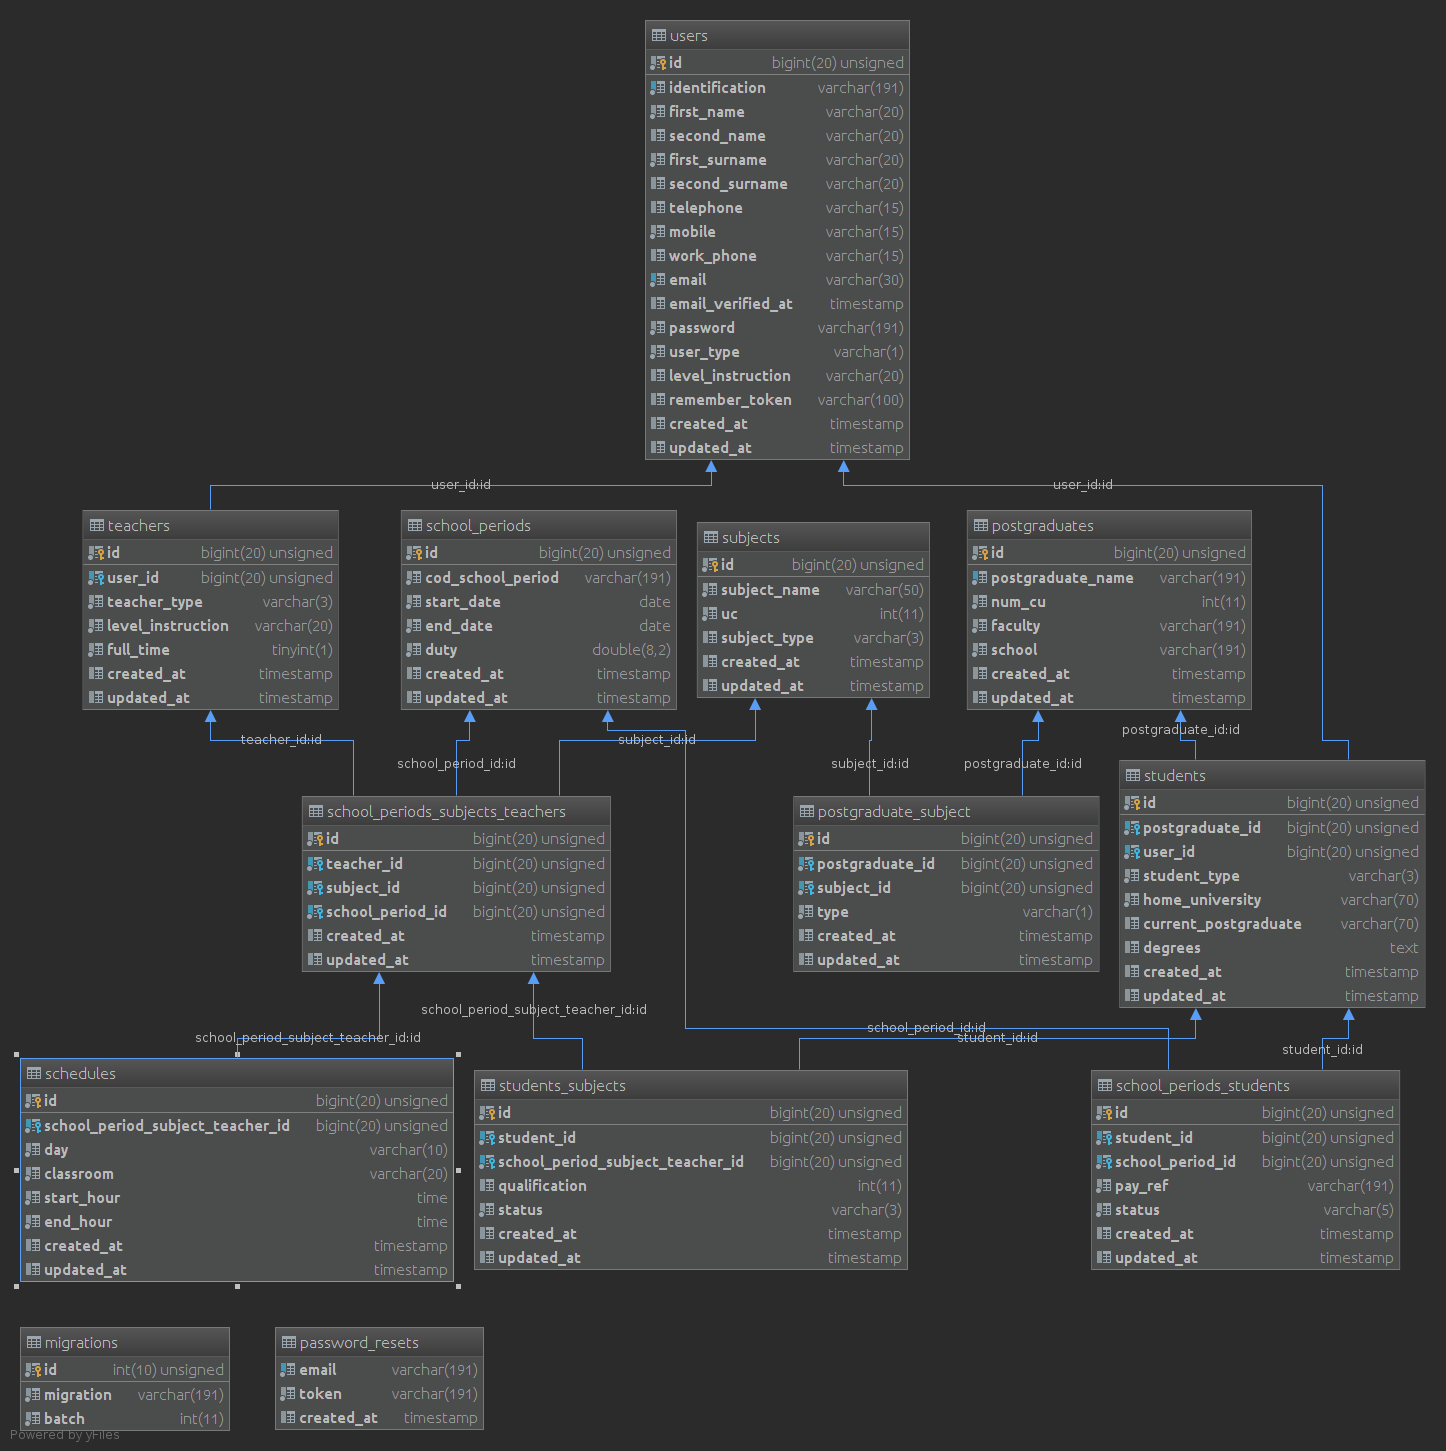
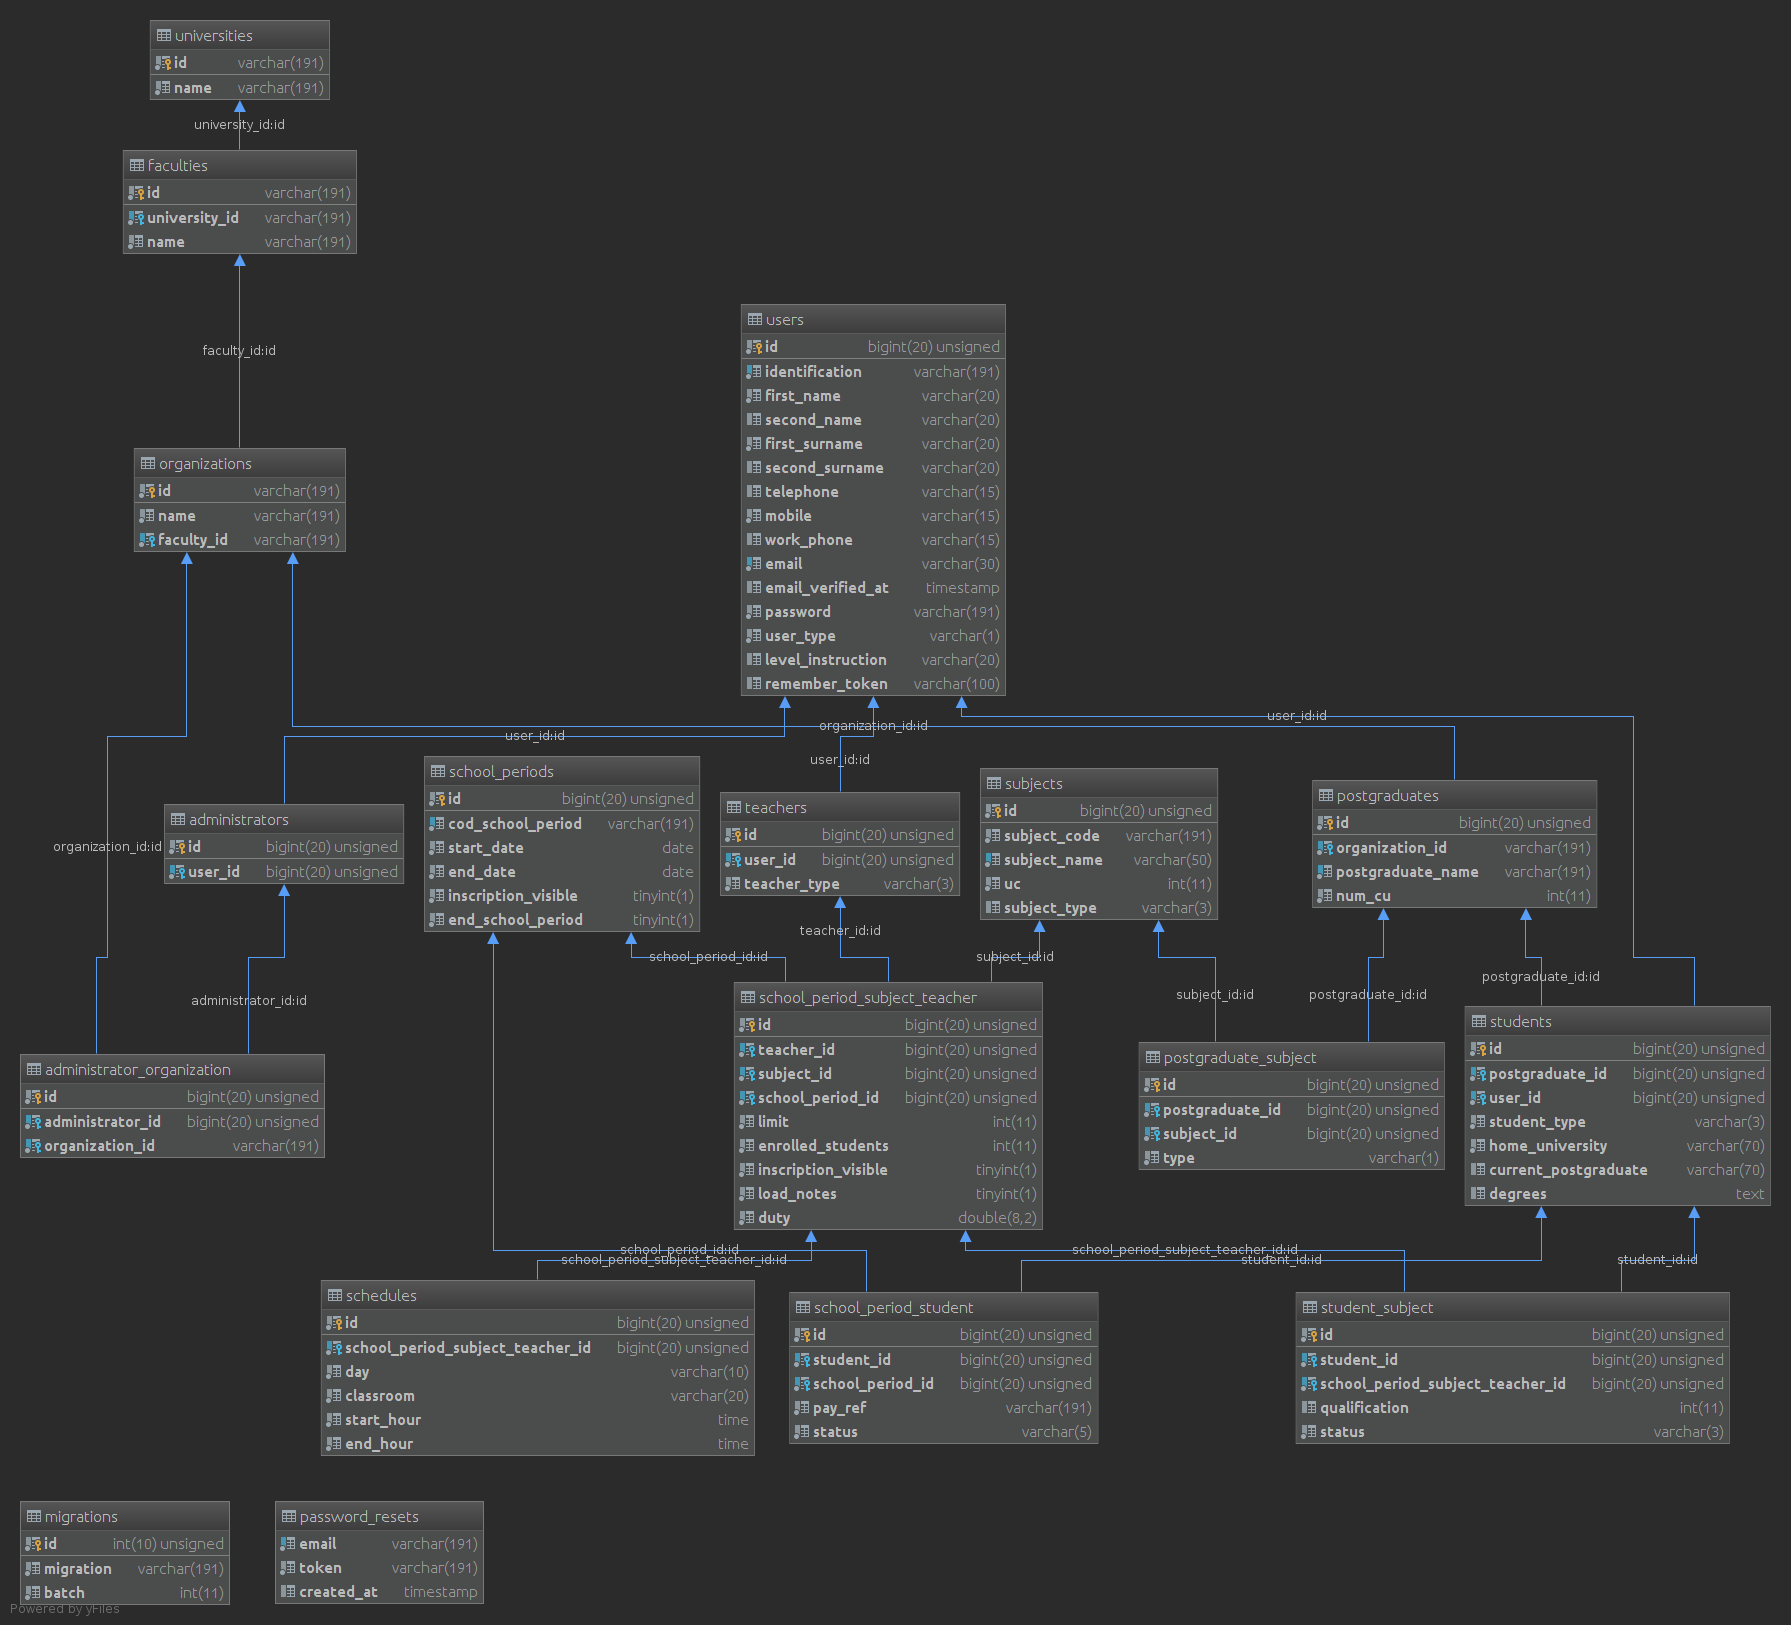
agregada asociacion de admin con organizacion al crear administrador

diff --git a/app/Http/Controllers/AdministratorController.php b/app/Http/Controllers/AdministratorController.php
@@ -5,6 +5,7 @@ namespace App\Http\Controllers;
 use Illuminate\Http\Request;
 use Illuminate\Support\Facades\Hash;
 use App\User;
+use App\AdministratorOrganization;
 
 class AdministratorController extends Controller
 {
@@ -41,6 +42,10 @@ class AdministratorController extends Controller
             $request['user_type']='A';
             User::create($request->all());
             $administrator = User::where(['identification'=>$request['identification']])->get()[0];
+            AdministratorOrganization::create([
+                'administrator_id'=>$administrator['id'],
+                'organization_id'=>$request['organization_id'],
+            ]);
             return $administrator;
         }
 

diff --git a/database/migrations/2019_08_04_200526_create_administrator_organizations_table.php b/database/migrations/2019_08_04_200526_create_administrator_organizations_table.php
@@ -17,7 +17,7 @@ class CreateAdministratorOrganizationsTable extends Migration
             $table->bigIncrements('id');
             $table->unsignedBigInteger('administrator_id');
             $table->string('organization_id');
-            $table->foreign('administrator_id')->references('id')->on('administrators')->onDelete('cascade');
+            $table->foreign('administrator_id')->references('id')->on('users')->onDelete('cascade');
             $table->foreign('organization_id')->references('id')->on('organizations')->onDelete('cascade');
         });
     }

diff --git a/database/seeds/DatabaseSeeder.php b/database/seeds/DatabaseSeeder.php
@@ -17,7 +17,7 @@ class DatabaseSeeder extends Seeder
         $this->call(FacultyTableSeeder::class);
         $this->call(OrganizationTableSeeder::class);
          $this->call(UsersTableSeeder::class);
-         $this->call(AdministratorOrganizationTableSeeder::class);
+         //$this->call(AdministratorOrganizationTableSeeder::class);
          $this->call(AdministratorOrganizationTableSeeder::class);
          //$this->call(AdministratorsTableSeeder::class);
          $this->call(TeachersTableSeeder::class);

diff --git a/database/migrations/2019_08_04_195912_create_administrators_table.php b/database/migrations/2019_08_04_195912_create_administrators_table.php
@@ -13,12 +13,12 @@ class CreateAdministratorsTable extends Migration
      */
     public function up()
     {
-        Schema::create('administrators', function (Blueprint $table) {
+        /*Schema::create('administrators', function (Blueprint $table) {
             $table->bigIncrements('id');
             $table->unsignedBigInteger('user_id');
             $table->foreign('user_id')->references('id')->on('users')->onDelete('cascade');
 
-        });
+        });*/
     }
 
     /**
